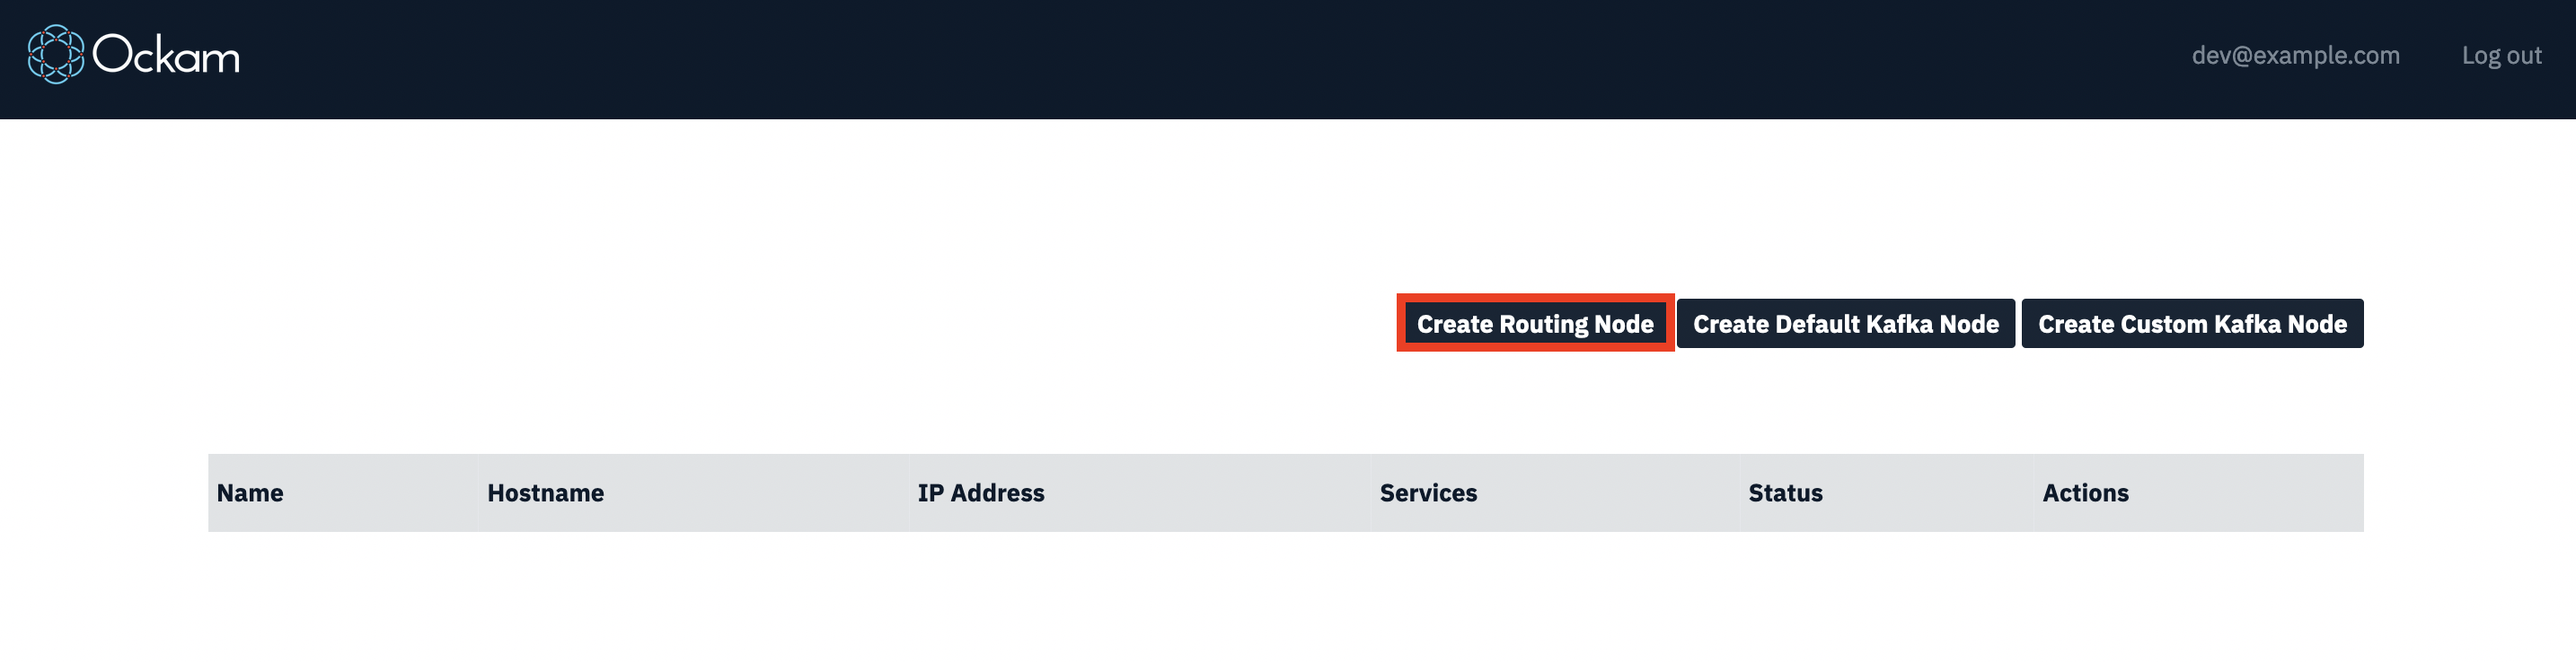
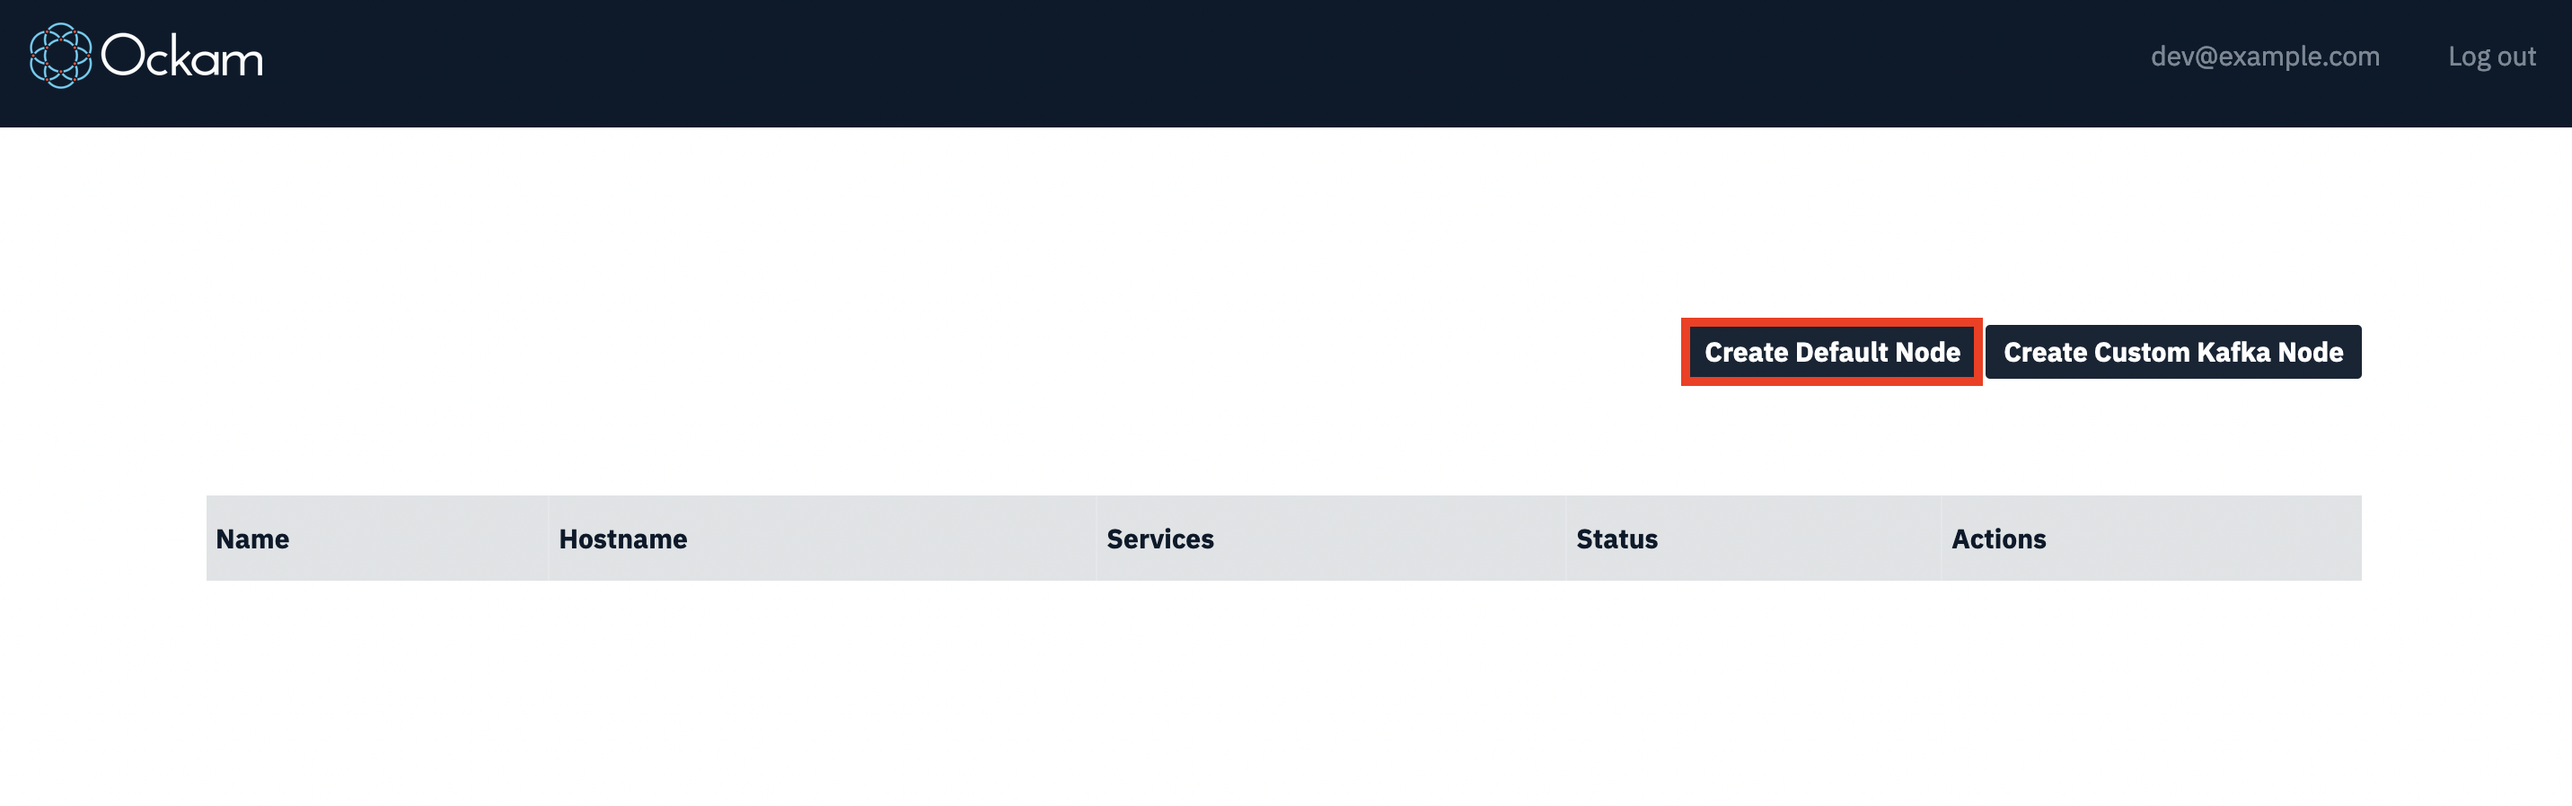
docs: hub console ui updates, use hostname for default node in guides

diff --git a/examples/rust/get_started/examples/securely-connecting-devices-bob.rs b/examples/rust/get_started/examples/securely-connecting-devices-bob.rs
@@ -7,7 +7,7 @@ use ockam::{
 async fn main(mut ctx: Context) -> Result<()> {
     // Using a shared Hub Node.
     // You can create a personal node by going to https://hub.ockam.network
-    let hub_node_tcp_address = "54.151.52.111:4000";
+    let hub_node_tcp_address = "1.node.ockam.network:4000";
 
     // Initialize the TCP Transport.
     let _tcp = TcpTransport::create(&ctx).await?;

diff --git a/examples/rust/get_started/examples/securely-connecting-devices-alice.rs b/examples/rust/get_started/examples/securely-connecting-devices-alice.rs
@@ -6,7 +6,7 @@ use ockam::{
 async fn main(ctx: Context) -> Result<()> {
     // Using a shared Hub Node.
     // You can create a personal node by going to https://hub.ockam.network
-    let hub_node_tcp_address = "54.151.52.111:4000";
+    let hub_node_tcp_address = "1.node.ockam.network:4000";
 
     let forwarding_address = "<Paste the forwarding address of Bob here>";
 

diff --git a/documentation/guides/use-cases/securely-connecting-devices/README.md b/documentation/guides/use-cases/securely-connecting-devices/README.md
@@ -26,7 +26,7 @@ Our goal is to make sure that Hub Node can facilitate communication, but cannot 
 
 A Hub Nodes are provided by the Ockam Hub cloud service.
 
-You can either use the shared server at TCP address: `54.151.52.111:4000`
+You can either use the shared server at TCP address: `1.node.ockam.network:4000`
 
 Or you can create your personal node by going to: https://hub.ockam.network
 
@@ -65,7 +65,7 @@ use ockam::{
 async fn main(mut ctx: Context) -> Result<()> {
     // Using a shared Hub Node.
     // You can create a personal node by going to https://hub.ockam.network
-    let hub_node_tcp_address = "54.151.52.111:4000";
+    let hub_node_tcp_address = "1.node.ockam.network:4000";
 
     // Initialize the TCP Transport.
     let _tcp = TcpTransport::create(&ctx).await?;
@@ -117,7 +117,7 @@ use ockam::{
 async fn main(ctx: Context) -> Result<()> {
     // Using a shared Hub Node.
     // You can create a personal node by going to https://hub.ockam.network
-    let hub_node_tcp_address = "54.151.52.111:4000";
+    let hub_node_tcp_address = "1.node.ockam.network:4000";
 
     let forwarding_address = "<Paste the forwarding address of Bob here>";
 

diff --git a/documentation/guides/rust/get-started/07-hub/README.md b/documentation/guides/rust/get-started/07-hub/README.md
@@ -22,13 +22,13 @@ This guide shows how to start a new Hub Node, connect an application and use ser
 
     <img src="./Github-log-in.png" width="100%">
 
-1. After that you can create a routing node:
+1. After that you can create a node:
 
     <img src="./Create-node.png" width="100%">
 
-1. When the node status changes to `Running` and IP Address gets resolved, the node is ready to use.
+1. When the node status changes to `Running / Ready`, the node is ready to use.
 
-1. From there you can copy the IP Address of the node to use in the examples.
+1. From there you can copy the Hostname of the node to use in the examples.
 
     <img src="./Node-address.png" width="100%">
 
